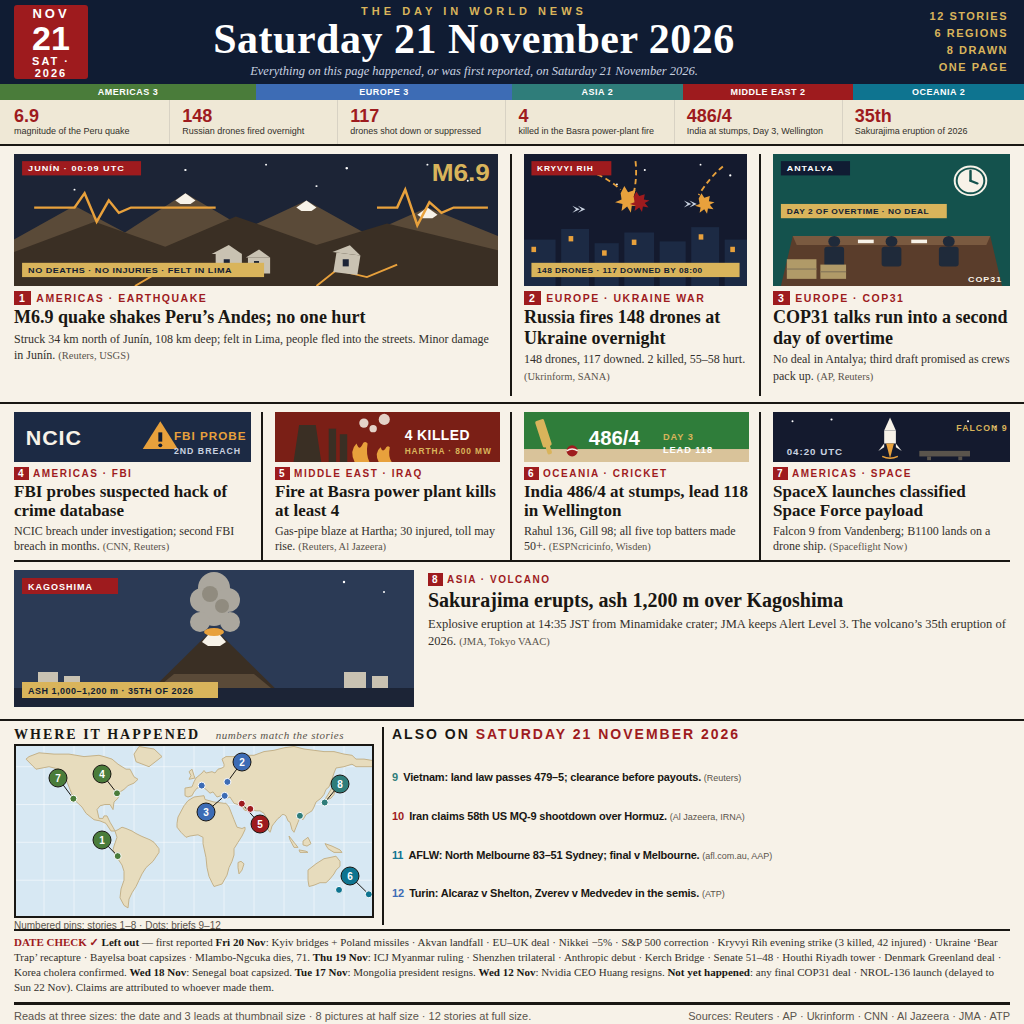
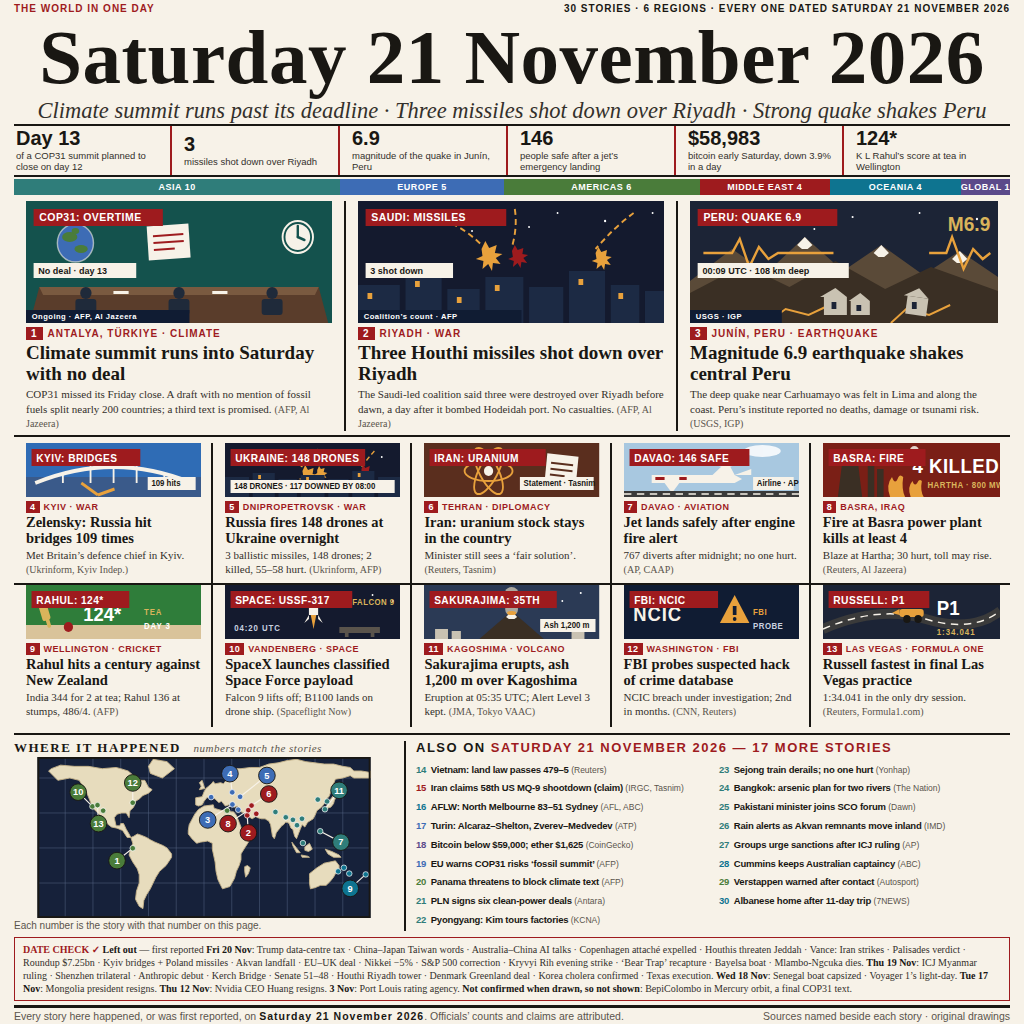
Restyle to reference front-page layout: 30 stories, 6 regions, full-width masthead

diff --git a/README.md b/README.md
@@ -6,10 +6,10 @@
 
 Entry for the make.fun bounty [Sum up 21 November's world news in one image](https://make.fun/bounty/news-image-20261121).
 
-A dense newspaper-style image summing up the world's news of Saturday 21 November 2026 — 12 stories on one page: a navy masthead with the date, a 6-stat strip, three illustrated lead stories, four cards plus a full-width volcano strip, a numbered briefs column, a "WHERE IT HAPPENED" map and a "DATE CHECK" footer. Every story carries its source beside it, and each brief's number is coloured with its region colour, matching the map.
+A dense newspaper-style image summing up the world's news of Saturday 21 November 2026 — 30 stories on one page, laid out like a classic front page: a giant serif masthead spanning the full width, an italic subtitle, a 6-stat strip, a region bar, three illustrated lead stories, ten cards in two rows of five, a dark-navy "WHERE IT HAPPENED" map with numbered pins, a two-column "ALSO ON" briefs list and a "DATE CHECK" footer. Every story carries its source beside it, and each brief's number is coloured with its region colour, matching the map.
 
-Leads: a M6.9 earthquake shakes Peru's Andes (no deaths, no injuries); Russia fires 148 drones at Ukraine overnight (117 downed, 2 killed); COP31 talks run into a second day of overtime in Antalya with still no deal. Cards: the FBI probes a suspected hack of the NCIC crime database; a fire at the Hartha power plant near Basra kills at least 4; India reach 486/4 at stumps on Day 3 in Wellington, leading by 118; SpaceX launches the classified USSF-317 payload from Vandenberg. Strip: Sakurajima erupts in Kagoshima, ash 1,000–1,200 m, its 35th eruption of 2026. Briefs: Vietnam's land law passes 479–5; Iran claims a 58th US MQ-9 shootdown over Hormuz; North Melbourne beat Sydney 83–51 in the AFLW preliminary final; the ATP Finals semis in Turin are Alcaraz v Shelton and Zverev v Medvedev.
+Leads: COP31 talks run into Saturday with no deal (Day 13, planned to close on day 12); three Houthi missiles shot down over Riyadh before dawn; a M6.9 earthquake shakes Peru's Andes (no deaths, no injuries). Cards: Zelensky says Russia hit bridges 109 times; Russia fires 148 drones at Ukraine overnight (117 downed, 2 killed); Iran says its uranium stock stays in the country; an Air Niugini 767 lands safely in Davao after an engine-fire indication, 146 safe; a fire at the Hartha power plant near Basra kills at least 4; Rahul hits 124* at tea (136 at stumps, India 486/4) against New Zealand; SpaceX launches the classified USSF-317 payload from Vandenberg; Sakurajima erupts in Kagoshima, ash 1,200 m, its 35th eruption of 2026; the FBI probes a suspected hack of the NCIC crime database; Russell is fastest in final Las Vegas practice (1:34.041, the only dry session). Briefs: Vietnam's land law passes 479–5; Iran claims a 58th US MQ-9 shootdown over Hormuz; North Melbourne beat Sydney 83–51 in the AFLW preliminary final; the ATP Finals semis in Turin are Alcaraz v Shelton and Zverev v Medvedev; Bitcoin trades below $59,000 at $58,983; the EU warns COP31 risks a "fossil summit"; Panama threatens to block the climate text; Indonesia's PLN signs six clean-power deals; Kim tours factories in Pyongyang; a freight train derails in Sejong with no one hurt; Bangkok's six-point plan on arsenic in two rivers; a Pakistani minister joins the SCO forum in New Delhi; rain alerts as Cyclone Akvan's remnants move inland; rights groups urge sanctions after the ICJ ruling; Cummins keeps the Australian captaincy; Verstappen is warned by stewards after contact; Albanese is home in Sydney after an 11-day trip.
 
-Built in the dense front-page style of the 20 November entry — 6-stat strip, detailed flat illustrations per story, region-coloured brief numbers, numbered map pins and a date check — using only verified facts. The image is drawn as a front page and the program copies it to the output directory unchanged.
+Built in the front-page style of the reference — giant full-width masthead, 6-stat strip, region-coloured brief numbers, numbered map pins and a date check — using only verified facts. The image is drawn as a front page and the program copies it to the output directory unchanged.
 
 Run it with `mkdir -p out && MAKEFUN_OUTPUT_DIR=out node main.ts`. The image is 1024×1024 PNG.
